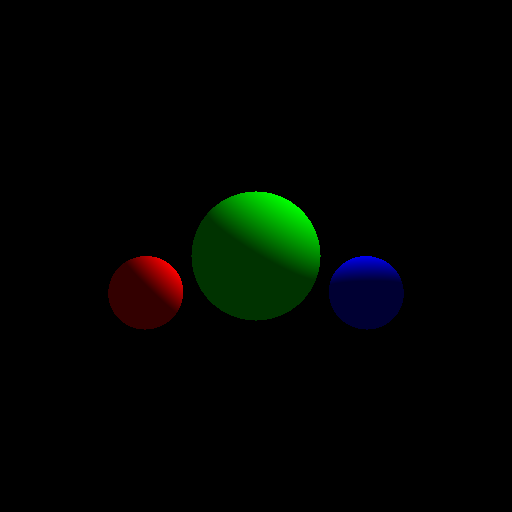
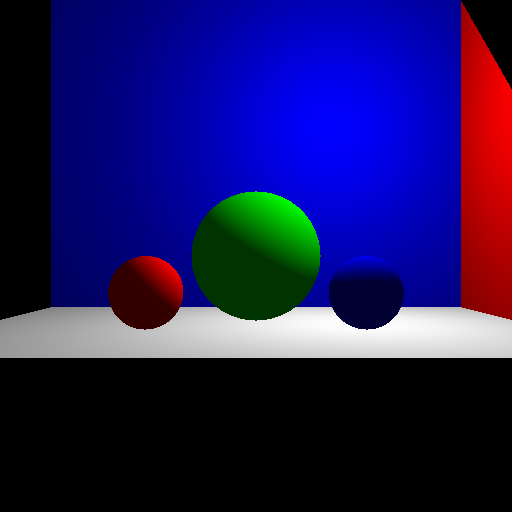
On to reflections and shadows

diff --git a/Ray3/main.c b/Ray3/main.c
@@ -44,6 +44,15 @@ float dotProduct(float x1, float y1, float z1, float x2, float y2, float z2) {
   return (x1 * x2) + (y1 * y2) + (z1 * z2);
 }
 
+Ray crossProduct(Ray ray1, Ray ray2) {
+  Ray ray;
+  ray.dir[0] = (ray1.dir[1] * ray2.dir[2]) - (ray1.dir[2] * ray2.dir[1]);
+  ray.dir[1] = (ray1.dir[2] * ray2.dir[0]) - (ray1.dir[0] * ray2.dir[2]);
+  ray.dir[2] = (ray1.dir[0] * ray2.dir[1]) - (ray1.dir[1] * ray2.dir[0]);
+  return ray;
+}
+
+
 //Subtracts vectors from eachother
 void subVector(float x1, float y1, float z1, float x2, float y2, float z2, float* resultX,
 		float* resultY, float* resultZ) {
@@ -133,7 +142,7 @@ RayHit Sphere_intersectT(Ray ray, Sphere sphere) {
   rayHit.t = t;
 
   for(int j = 0; j < 3; j++) {
-    ray.pos[j] = ray.dir[j] * t;
+    ray.pos[j] = ray.pos[j] + ray.dir[j] * t;
     //rayToIntersect.pos[j] = sphere.pos[j];
   }
   
@@ -171,8 +180,8 @@ RayHit TriangleIntersection(Ray ray, Triangle triangle) {
   float K = y1 - ray.pos[1];
   float L = z1 - ray.pos[2];
   float M = A*(E*I - H*F) + B*(G*F - D*I) + C*(D*H - E*G);
-  float beta = (J*(E*I - H*F) + K*(G*F - D*I) + L(D*H - E*G)) / M;
-  float gamma = (I*(A*K - J*B) + H*(J*C - A*L) + G(B*L - K*C)) / M;
+  float beta = (J*(E*I - H*F) + K*(G*F - D*I) + L*(D*H - E*G)) / M;
+  float gamma = (I*(A*K - J*B) + H*(J*C - A*L) + G*(B*L - K*C)) / M;
   float t = (-(F*(A*K - J*B) + E*(J*C - A*L) + D*(B*L - K*C))) / M;
 
   //Might want to fill out the rest of ray hit just in case
@@ -192,9 +201,30 @@ RayHit TriangleIntersection(Ray ray, Triangle triangle) {
   }
   
   //Now that we know the rayHit, we need to find light info
-
+  rayHit.t = t;
+  rayHit.material = triangle.material;
 
   
+  //Hopefull this look is ok
+  for(int j = 0; j < 3; j++) {
+    rayHit.pos[j] = ray.pos[j] + ray.dir[j] * t;
+  }
+  
+  Ray vectorAtoC;
+  Ray vectorAtoB;
+  for(int i = 0; i < 3; i++) {
+    vectorAtoC.dir[i] = triangle.v[2][i] - triangle.v[0][i];
+    vectorAtoB.dir[i] = triangle.v[1][i] - triangle.v[0][i];
+  }
+  //Do we want to normalize these vectors?
+  normalize(&vectorAtoC.dir[0], &vectorAtoC.dir[1], &vectorAtoC.dir[2]);
+  normalize(&vectorAtoB.dir[0], &vectorAtoB.dir[1], &vectorAtoB.dir[2]);
+  //We want to do B cross product C for the norm
+  Ray norm = crossProduct(vectorAtoB, vectorAtoC);
+  normalize(&norm.dir[0], &norm.dir[1], &norm.dir[2]);
+  for(int i = 0; i < 3; i++) {
+    rayHit.surfaceNorm[i] = norm.dir[i];
+  }
   return rayHit;
 }
 
@@ -267,6 +297,8 @@ int main(int argc, char *argv[]) {
   float pixelY = 0;
   
   Sphere sphereArr[3];
+  Triangle triangleArr[5];
+  int triangleArrSize = 5;
   int sphereArrSize = 3;
   for(int i = 0; i < sphereArrSize; i++) {
     if(i == 0) {
@@ -303,7 +335,77 @@ int main(int argc, char *argv[]) {
     }
     
   }
-  RayHit rayHitArr[3];
+  triangleArr[0].v[0][0] = -8;
+  triangleArr[0].v[0][1] = -2;
+  triangleArr[0].v[0][2] = -20;
+  triangleArr[0].v[1][0] = 8;
+  triangleArr[0].v[1][1] = -2;
+  triangleArr[0].v[1][2] = -20;
+  triangleArr[0].v[2][0] = 8;
+  triangleArr[0].v[2][1] = 10;
+  triangleArr[0].v[2][2] = -20;
+  triangleArr[0].material.color[0] = 0;
+  triangleArr[0].material.color[1] = 0;
+  triangleArr[0].material.color[2] = 1;
+  triangleArr[0].material.reflective = 0;
+
+  triangleArr[1].v[0][0] = -8;
+  triangleArr[1].v[0][1] = -2;
+  triangleArr[1].v[0][2] = -20;
+  triangleArr[1].v[1][0] = 8;
+  triangleArr[1].v[1][1] = 10;
+  triangleArr[1].v[1][2] = -20;
+  triangleArr[1].v[2][0] = -8;
+  triangleArr[1].v[2][1] = 10;
+  triangleArr[1].v[2][2] = -20;
+  triangleArr[1].material.color[0] = 0;
+  triangleArr[1].material.color[1] = 0;
+  triangleArr[1].material.color[2] = 1;
+  triangleArr[1].material.reflective = 0;
+
+  triangleArr[2].v[0][0] = -8;
+  triangleArr[2].v[0][1] = -2;
+  triangleArr[2].v[0][2] = -20;
+  triangleArr[2].v[1][0] = 8;
+  triangleArr[2].v[1][1] = -2;
+  triangleArr[2].v[1][2] = -10;
+  triangleArr[2].v[2][0] = 8;
+  triangleArr[2].v[2][1] = -2;
+  triangleArr[2].v[2][2] = -20;
+  triangleArr[2].material.color[0] = 1;
+  triangleArr[2].material.color[1] = 1;
+  triangleArr[2].material.color[2] = 1;
+  triangleArr[2].material.reflective = 0;
+
+  triangleArr[3].v[0][0] = -8;
+  triangleArr[3].v[0][1] = -2;
+  triangleArr[3].v[0][2] = -20;
+  triangleArr[3].v[1][0] = -8;
+  triangleArr[3].v[1][1] = -2;
+  triangleArr[3].v[1][2] = -10;
+  triangleArr[3].v[2][0] = 8;
+  triangleArr[3].v[2][1] = -2;
+  triangleArr[3].v[2][2] = -10;
+  triangleArr[3].material.color[0] = 1;
+  triangleArr[3].material.color[1] = 1;
+  triangleArr[3].material.color[2] = 1;
+  triangleArr[3].material.reflective = 0;  
+  
+  triangleArr[4].v[0][0] = 8;
+  triangleArr[4].v[0][1] = -2;
+  triangleArr[4].v[0][2] = -20;
+  triangleArr[4].v[1][0] = 8;
+  triangleArr[4].v[1][1] = -2;
+  triangleArr[4].v[1][2] = -10;
+  triangleArr[4].v[2][0] = 8;
+  triangleArr[4].v[2][1] = 10;
+  triangleArr[4].v[2][2] = -20;
+  triangleArr[4].material.color[0] = 1;
+  triangleArr[4].material.color[1] = 0;
+  triangleArr[4].material.color[2] = 0;
+  triangleArr[4].material.reflective = 0;
+  
+  RayHit rayHitArr[8];
   
   
   for(int y = 0; y < length; y++) {
@@ -330,20 +432,27 @@ int main(int argc, char *argv[]) {
       int max = 0;
       RayHit realRay;
       
-      for(int j = 0; j < sphereArrSize; j++) {
-	rayHitArr[j] = Sphere_intersectT(rayArr[i], sphereArr[j]);
+      for(int j = 0; j < sphereArrSize + triangleArrSize; j++) {
+	if(j < sphereArrSize) {
+	  rayHitArr[j] = Sphere_intersectT(rayArr[i], sphereArr[j]);
+	}
+
+	else {
+	  rayHitArr[j] = TriangleIntersection(rayArr[i], triangleArr[j-sphereArrSize]);
+	}
       }
 
       //realRay = rayHitArr[0];
       
       float t = -1;
-      for(int j = 0; j < sphereArrSize; j++) {
+      for(int j = 0; j < sphereArrSize + triangleArrSize; j++) {
+	
 	if(rayHitArr[j].t > t && t < 0) {
 	  t = rayHitArr[j].t;
 	  max = j;
 	  //printf("%d\n", max);
 	}
-
+	
 	else if(t > 0 && rayHitArr[j].t > 0 && rayHitArr[j].t < t) {
 	  t = rayHitArr[j].t;
 	  max = j;
